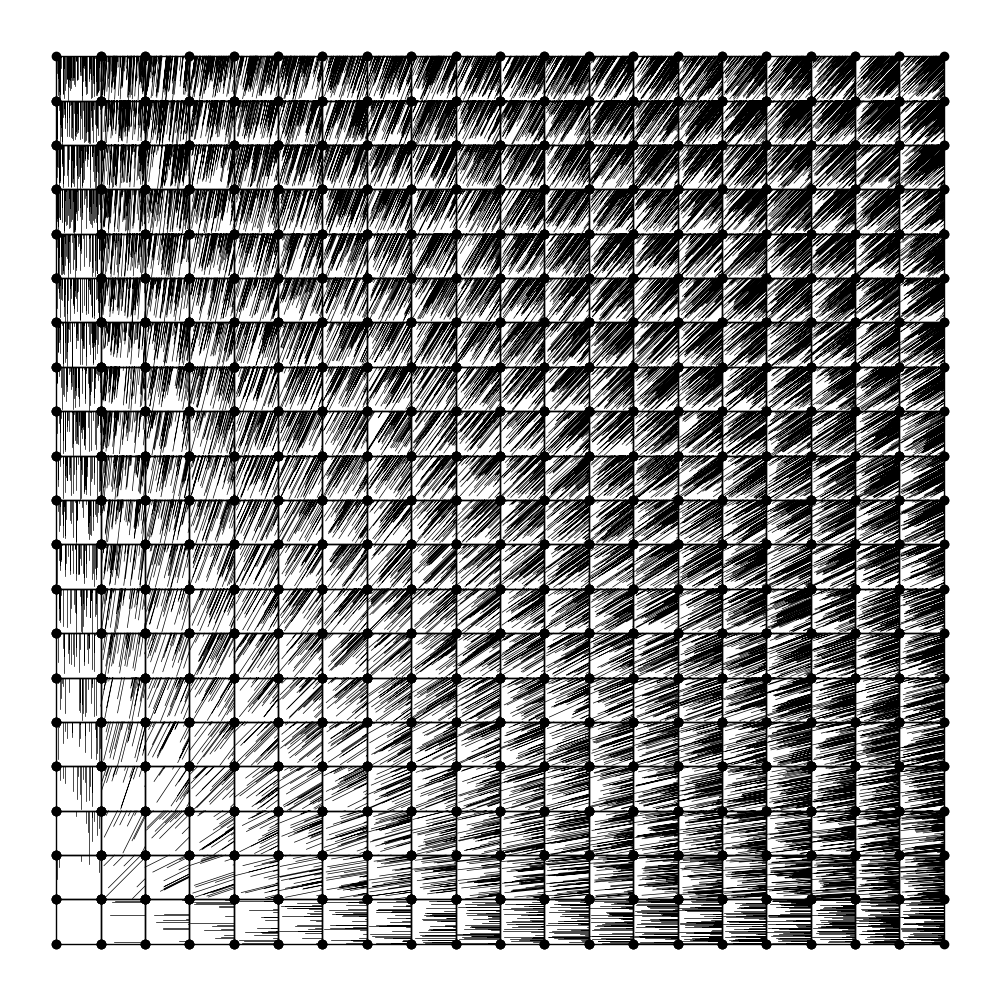
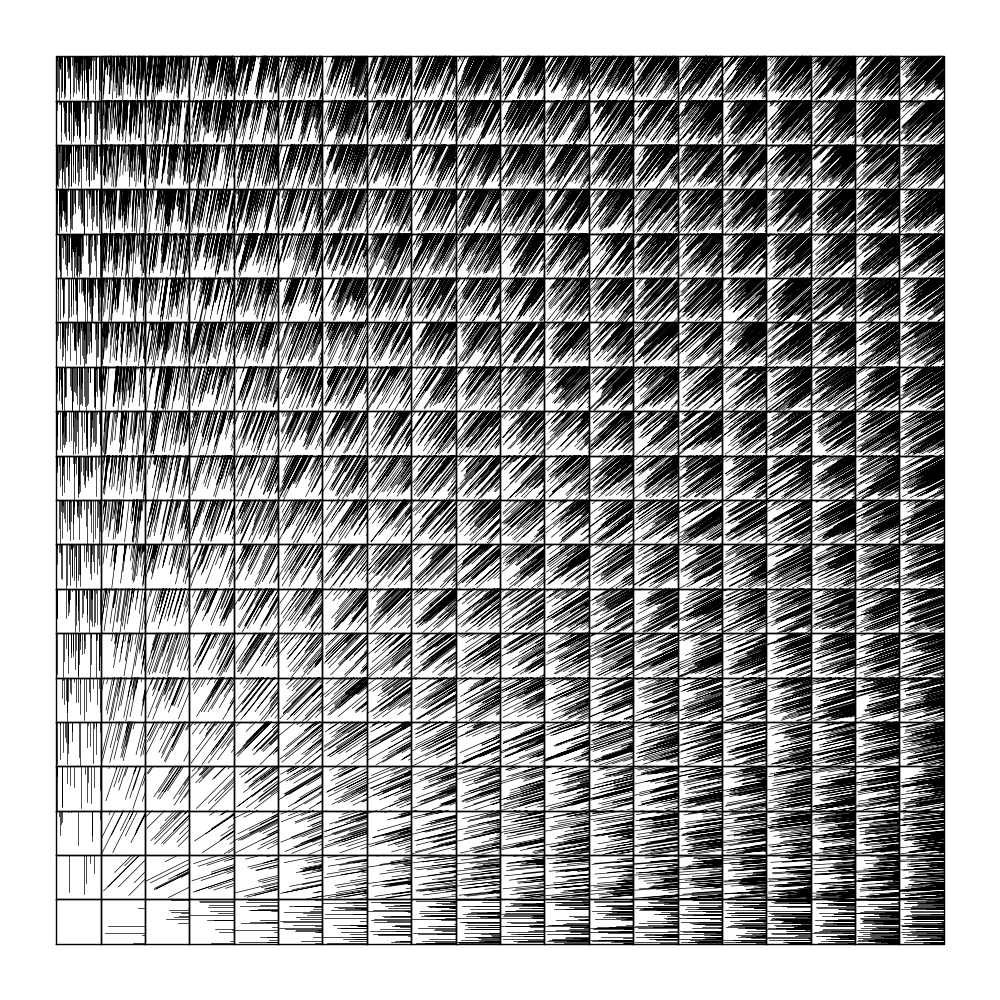
Fixes handling of angles on other quadrants
Moved the computation of the length of inside lines to a new function,
namely `distance_to_hit_boundary`, and added support for other angles
out of `[0, pi/2]`.

Also added 3 new drawing examples.

diff --git a/main.py b/main.py
@@ -37,7 +37,7 @@ class Square:
         self.set_corners()
 
     def set_corners(self) -> None:
-        """"""
+        """set values for four points representing the corners of the square"""
         self.p1 = numpy.array([self.x_min, self.y_min])  # bottom left
         self.p2 = numpy.array([self.x_max, self.y_min])  # bottom right
         self.p3 = numpy.array([self.x_max, self.y_max])  # top right
@@ -48,7 +48,7 @@ class Square:
             axis: pyplot.Axes,
             line_width: float = 1.0,
             line_style: str = "solid",
-            marker: str = "o",
+            marker: str = "",
             color: str = "k") -> None:
         """Draw the borders of the sqaure"""
         points = numpy.stack([self.p1, self.p2, self.p3, self.p4, self.p1])
@@ -60,8 +60,49 @@ class Square:
             marker=marker,
             color=color)
 
+    def distance_to_hit_boundary(
+            self, X: numpy.ndarray, Y: numpy.ndarray, angle: float
+    ) -> numpy.ndarray:
+        """distance from the each point (x, y) given the angle until the
+        boundary of the sqaure
+
+        """
+        # TODO: this only works for a single angle for all the lines
+        #       meaning that if we want to have varying angles withing
+        #       one square, it won't work
+
+        # TODO: this isn't very readable, can you simplify or add
+        #       description?
+
+        if numpy.cos(angle) == 0:
+            distances = self.y_max - Y
+        elif numpy.sin(angle) == 0:
+            distances = self.x_max - X
+        else:
+            if 0 <= angle <= numpy.pi/2:
+                distances = numpy.stack(
+                    [numpy.abs((self.x_max - X) / numpy.cos(angle)),
+                     numpy.abs((self.y_max - Y) / numpy.sin(angle))],
+                    axis=1).min(axis=1)
+            elif -numpy.pi/2 <= angle < 0:
+                distances = numpy.stack(
+                    [numpy.abs((self.x_max - X) / numpy.cos(angle)),
+                     numpy.abs((self.y_min - Y) / numpy.sin(angle))],
+                    axis=1).min(axis=1)
+            elif numpy.pi/2 < angle <= numpy.pi:
+                distances = numpy.stack(
+                    [numpy.abs((self.x_min - X) / numpy.cos(angle)),
+                     numpy.abs((self.y_max - Y) / numpy.sin(angle))],
+                    axis=1).min(axis=1)
+            elif -numpy.pi <= angle < -numpy.pi/2:
+                distances = numpy.stack(
+                    [numpy.abs((self.x_min - X) / numpy.cos(angle)),
+                     numpy.abs((self.y_min - Y) / numpy.sin(angle))],
+                    axis=1).min(axis=1)
+        return distances
+
     def inside_lines_1(
-            self, count: int, angle: int
+            self, count: int, angle: float
     ) -> Tuple[numpy.ndarray, numpy.ndarray]:
         """
         * all lines have the same angle
@@ -72,30 +113,17 @@ class Square:
             low=self.x_min, high=self.x_max, size=count)
         starts_y = numpy.random.uniform(
             low=self.y_min, high=self.y_max, size=count)
-
-        # length from the starting point until the line hits a
-        # boundary of the sqaure
-        # TODO: this only works if angle in [0, 90]
-        if numpy.cos(angle) == 0:
-            lengths = self.y_max - starts_y
-        elif numpy.sin(angle) == 0:
-            lengths = self.x_max - starts_x
-        else:
-            lengths = numpy.stack(
-                [(self.x_max - starts_x) / numpy.cos(angle),
-                 (self.y_max - starts_y) / numpy.sin(angle)],
-                axis=1).min(axis=1)
-
+        lengths = self.distance_to_hit_boundary(
+            starts_x, starts_y, angle)
         ends_x = starts_x + lengths * numpy.cos(angle)
         ends_y = starts_y + lengths * numpy.sin(angle)
-
         return starts_x, starts_y, ends_x, ends_y
 
     def draw_inside_lines(
             self,
             axis: pyplot.Axes,
             count: int,
-            angle: int,
+            angle: float,
             line_width: float = 0.5,
             line_style: str = "solid",
             marker: str = "",
@@ -105,7 +133,6 @@ class Square:
         #       the line drawing
         starts_x, starts_y, ends_x, ends_y = self.inside_lines_1(
             count=count, angle=angle)
-
         # in order to prevent pyplot from drawing a line in between
         # two points, put a pair of [nan, nan] between them:
         # [[p1x, p1y], [p2x, p2y], [nan, nan], [p3x, p3y],...]
@@ -146,31 +173,132 @@ def map_to_interval(
     return value * (interval[1] - interval[0]) + interval[0]
 
 
-# TODO: turn the big picture drawing into a function
-figure, axis = pyplot.subplots(nrows=1, ncols=1, sharex=True, figsize=(10, 10))
-x_range = (0, 20)
-y_range = (0, 20)
-distance_to_origin_range = (
-    numpy.sqrt(x_range[0]**2 + y_range[0]**2),
-    numpy.sqrt(x_range[1]**2 + y_range[1]**2),
-)
-count_range = (0, 150)
-for x in range(*x_range):
-    for y in range(*y_range):
-        distance_to_origin = numpy.sqrt(x**2 + y**2)
-        count_normalized = normalize(
-            value=distance_to_origin, interval=distance_to_origin_range)
-        count = int(map_to_interval(
-            value=count_normalized, interval=count_range))
-        angle = numpy.arctan2(y, x)
-        if (x == 0 and y == 0):
-            angle = numpy.deg2rad(45)
-        square = Square(translation=(x, y))
-        square.draw_border(axis=axis)
-        square.draw_inside_lines(axis=axis,
-                                 count=count,
-                                 angle=angle)
-pyplot.axis("equal")
-pyplot.axis('off')
-pyplot.tight_layout()
-pyplot.show()
+# TODO: turn the big picture drawing (examples) into functions
+
+if 0:  # examples_1
+    figure, axis = pyplot.subplots(
+        nrows=1, ncols=1, sharex=True, figsize=(10, 10))
+    x_range = (0, 20)
+    y_range = (0, 20)
+    distance_to_origin_range = (
+        numpy.sqrt(x_range[0]**2 + y_range[0]**2),
+        numpy.sqrt(x_range[1]**2 + y_range[1]**2),
+    )
+    count_range = (0, 150)
+    for x in range(*x_range):
+        for y in range(*y_range):
+            distance_to_origin = numpy.sqrt(x**2 + y**2)
+            count_normalized = normalize(
+                value=distance_to_origin, interval=distance_to_origin_range)
+            count = int(map_to_interval(
+                value=count_normalized, interval=count_range))
+            angle = numpy.arctan2(y, x)
+            if (x == 0 and y == 0):
+                angle = numpy.deg2rad(45)
+            square = Square(translation=(x, y))
+            square.draw_border(axis=axis)
+            square.draw_inside_lines(axis=axis,
+                                     count=count,
+                                     angle=angle)
+    pyplot.axis("equal")
+    pyplot.axis('off')
+    pyplot.tight_layout()
+    pyplot.show()
+
+if 0:  # examples_2
+    figure, axis = pyplot.subplots(
+        nrows=1, ncols=1, sharex=True, figsize=(10, 10))
+    x_range = (0, 5)
+    y_range = (0, 5)
+    distance_to_origin_range = (
+        numpy.sqrt(x_range[0]**2 + y_range[0]**2),
+        numpy.sqrt(x_range[1]**2 + y_range[1]**2),
+    )
+    count_range = (0, 150)
+    for x in range(*x_range):
+        for y in range(*y_range):
+            if x == y == 0:
+                continue
+            distance_to_origin = numpy.sqrt(x**2 + y**2)
+            count_normalized = normalize(
+                value=distance_to_origin, interval=distance_to_origin_range)
+            count = int(map_to_interval(
+                value=count_normalized, interval=count_range))
+            angle = numpy.arctan2(y, x)
+            if (x == 0 and y == 0):
+                angle = numpy.deg2rad(45)
+            square = Square(
+                scale=(1/(distance_to_origin+0.2)), translation=(x, y))
+            square.draw_border(axis=axis)
+            square.draw_inside_lines(axis=axis,
+                                     count=count,
+                                     angle=angle)
+    pyplot.axis("equal")
+    pyplot.axis('off')
+    pyplot.tight_layout()
+    pyplot.show()
+
+if 0:  # examples_3
+    figure, axis = pyplot.subplots(
+        nrows=1, ncols=1, sharex=True, figsize=(10, 10))
+    x_range = (0, 10)
+    y_range = (0, 10)
+    distance_to_origin_range = (
+        numpy.sqrt(x_range[0]**2 + y_range[0]**2),
+        numpy.sqrt(x_range[1]**2 + y_range[1]**2),
+    )
+    count_range = (0, 100)
+    for x in range(*x_range):
+        for y in range(*y_range):
+            if x == y == 0:
+                continue
+            distance_to_origin = numpy.sqrt(x**2 + y**2)
+            count_normalized = normalize(
+                value=distance_to_origin, interval=distance_to_origin_range)
+            count = int(map_to_interval(
+                value=count_normalized, interval=count_range))
+            angle = numpy.arctan2(y, x)
+            if (x == 0 and y == 0):
+                angle = numpy.deg2rad(45)
+            square.draw_border(axis=axis)
+            square.draw_inside_lines(axis=axis,
+                                     count=count,
+                                     angle=angle)
+    pyplot.axis("equal")
+    pyplot.axis('off')
+    pyplot.tight_layout()
+    pyplot.show()
+
+if 0:  # examples_4
+    figure, axis = pyplot.subplots(
+        nrows=1, ncols=1, sharex=True, figsize=(10, 10))
+    x_range = (-9, 10)
+    y_range = (-9, 10)
+    distance_to_origin_range = (
+        0,  # numpy.sqrt(x_range[0]**2 + y_range[0]**2),
+        numpy.sqrt(x_range[1]**2 + y_range[1]**2),
+    )
+    count_range = (0, 150)
+    for x in range(*x_range):
+        for y in range(*y_range):
+            distance_to_origin = numpy.sqrt(x**2 + y**2)
+            count_normalized = normalize(
+                value=distance_to_origin, interval=distance_to_origin_range)
+            count = int(map_to_interval(
+                value=count_normalized, interval=count_range))
+            # count = 50
+            angle = numpy.arctan2(y, x)
+            if (x == 0 and y == 0):
+                count = 0
+                angle = numpy.deg2rad(45)
+            square = Square(translation=(x, y))
+            square.draw_border(axis=axis)
+            square.draw_inside_lines(axis=axis,
+                                     count=count,
+                                     angle=angle)
+    pyplot.axis("equal")
+    pyplot.axis('off')
+    pyplot.tight_layout()
+    pyplot.show()
+
+# TODO: an interactive mode where the "origin" shifts with the mouse curser
